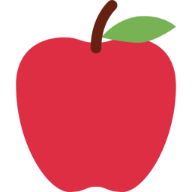
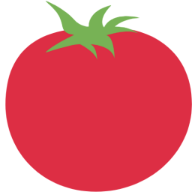
Display time in title and pomodoros are :tomato:

Changed region(s): [[0.0, 0.0, 1.0, 0.9375], [0.25, 0.9375, 0.75, 1.0], [0.2188, 0.9062, 0.25, 0.9375]]

diff --git a/src/components/Display.js b/src/components/Display.js
@@ -1,16 +1,22 @@
-import { getMinutos, getSegundos } from "../utils/getters";
+import { useEffect } from "react";
+import { getDisplayTime } from "../utils/getDisplayTime";
 import { DisplayStyled } from "./styled_components/DisplayStyled";
 
-const Display = ({ isSession, sessionTime, breakTime }) => {
-  let minutos = getMinutos(isSession ? sessionTime : breakTime);
-  let segundos = getSegundos(isSession ? sessionTime : breakTime);
+const Display = ({ isSession, isRunning, sessionTime, breakTime }) => {
+  let { minutos, segundos } = getDisplayTime(isSession, sessionTime, breakTime);
+
+  useEffect(() => {
+    document.title = isRunning
+      ? minutos + ":" + segundos + " | Reloj Pomodoro"
+      : "Reloj Pomodoro";
+  }, [isRunning, minutos, segundos]);
+
   return (
     <DisplayStyled id="display">
       <h4 id="timer-label">{isSession ? "Sesión" : "Descanso"}</h4>
 
       <span id="time-left">
-        {minutos.toString().length <= 1 ? "0" + minutos : minutos}:
-        {segundos.toString().length <= 1 ? "0" + segundos : segundos}
+        {minutos}:{segundos}
       </span>
     </DisplayStyled>
   );

diff --git a/src/utils/getDisplayTime.js b/src/utils/getDisplayTime.js
@@ -1,0 +1,9 @@
+import { getMinutos, getSegundos } from "./getters";
+
+export function getDisplayTime(isSession, sessionTime, breakTime) {
+  let minutos = getMinutos(isSession ? sessionTime : breakTime);
+  let segundos = getSegundos(isSession ? sessionTime : breakTime);
+  minutos = minutos.toString().length <= 1 ? "0" + minutos : minutos;
+  segundos = segundos.toString().length <= 1 ? "0" + segundos : segundos;
+  return { minutos, segundos };
+}

diff --git a/src/App.js b/src/App.js
@@ -168,6 +168,7 @@ export default function App() {
           isSession={state.isSession}
           sessionTime={state.sessionTime}
           breakTime={state.breakTime}
+          isRunning={state.isRunning}
         />
         <FlexContainer
           justify={"center"}

diff --git a/README.md b/README.md
@@ -8,4 +8,4 @@ Este es un proyecto creado con [Create React App](https://github.com/facebook/cr
 
 ## Sobre el Proyecto
 
-Se trata de un reloj que aplica la [Pomodoro Technique](https://en.wikipedia.org/wiki/Pomodoro_Technique), por el momento solo se implementó la parte del temporizador de la técnica, en un futuro se va a desarrollar la posibilidad de agregar **Tareas** y asignarles cuantos _pomodoros_ :apple: van a llevar completar cada una.
+Se trata de un reloj que aplica la [Pomodoro Technique](https://en.wikipedia.org/wiki/Pomodoro_Technique), por el momento solo se implementó la parte del temporizador de la técnica, en un futuro se va a desarrollar la posibilidad de agregar **Tareas** y asignarles cuantos _pomodoros_ :tomato: van a llevar completar cada una.
